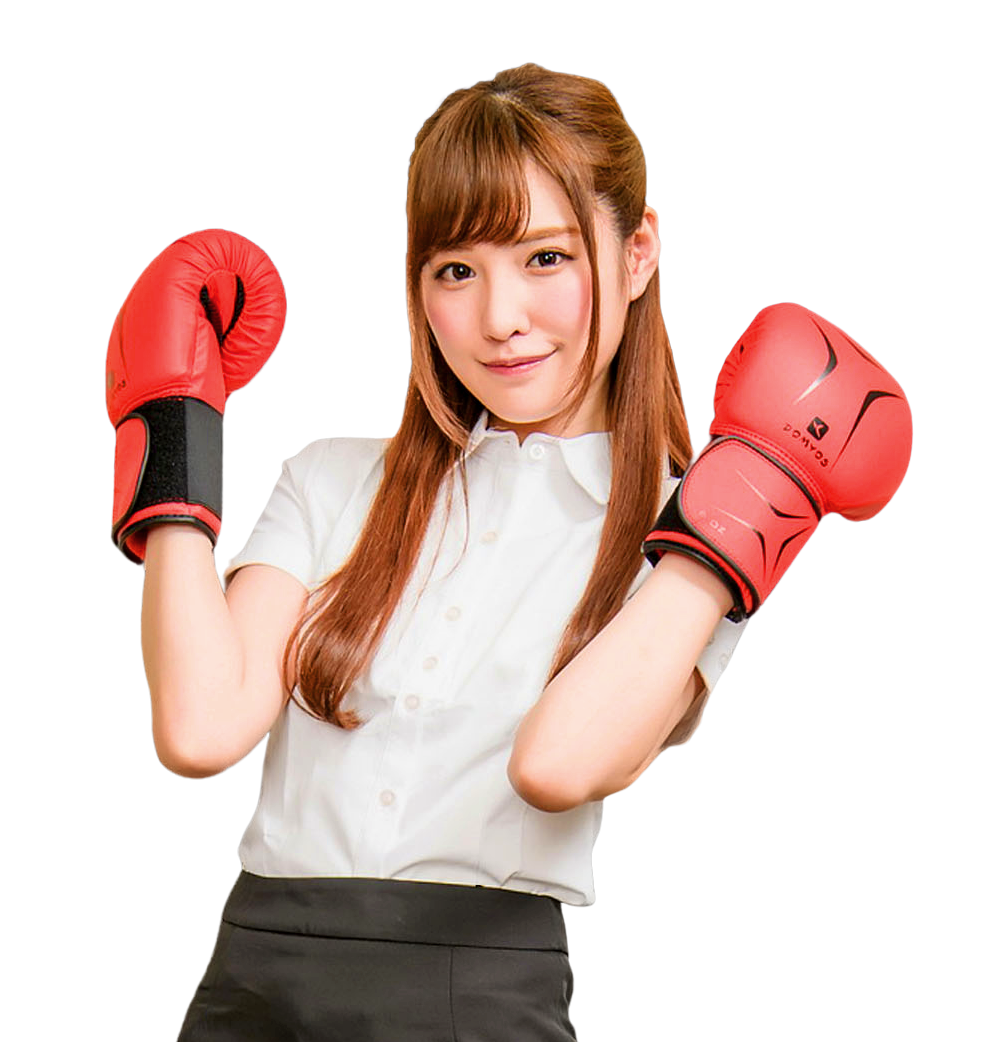
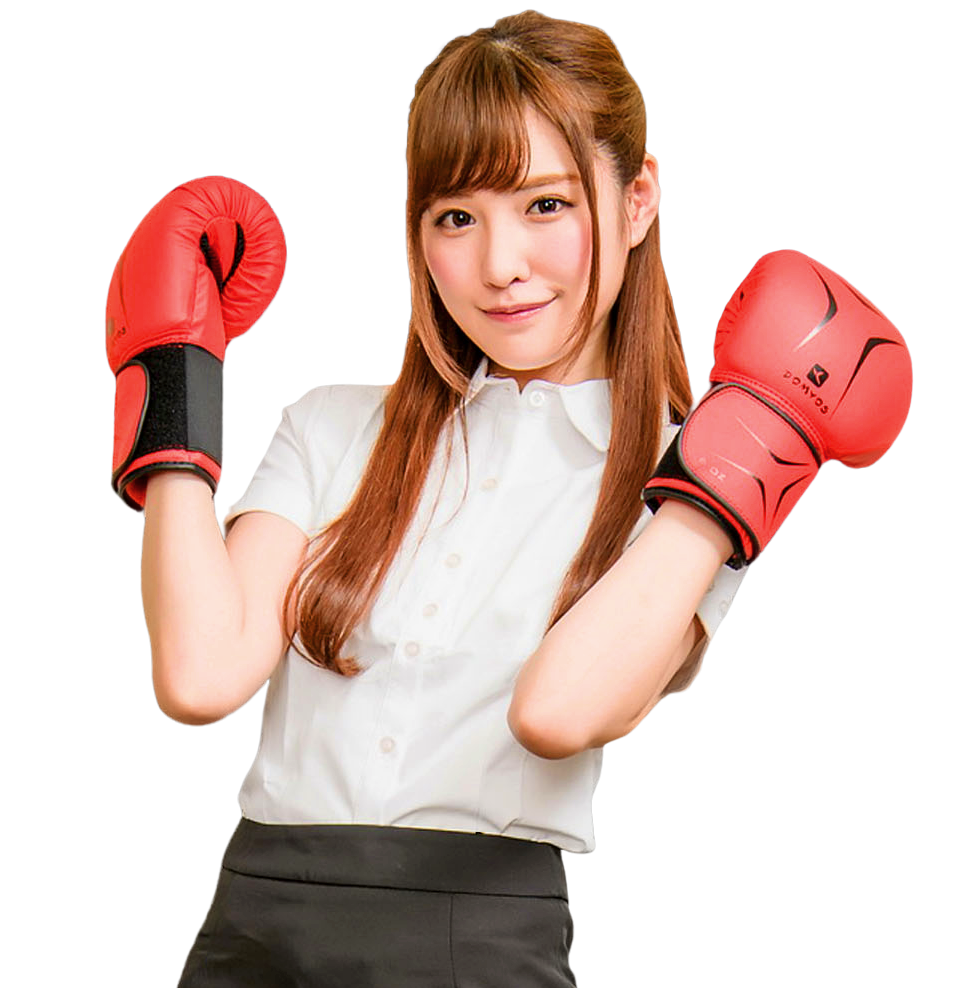
fix img

Changed region(s): [[0.0919, 0.0, 0.9499, 0.9717], [0.1226, 0.6073, 0.1532, 0.668]]

diff --git a/css/style.css b/css/style.css
@@ -311,14 +311,14 @@ header .row{
     position: absolute;
     transform: translate(-50%, 0);
     top:0;
-    margin-top: 0;
+    margin-top: 3%;
     width:auto;
     z-index:0;
 }
 
 
 .win-and-get div{
-    margin: 3% 0;
+    margin: 3% -15%;
 }
 .win-and-get span{
     margin:0 5px;
@@ -333,7 +333,7 @@ header .row{
 }
 .win-number p{
     display:inline-block;
-    font-size: 4vw;
+    font-size: 5vw;
 }
 .play-history, .prize-history{
     margin-top:5%;
@@ -393,6 +393,7 @@ header .row{
     z-index:2;
 }
 .model1 img{
+    width: 110%;
 }
 .model2 img{
     width: 100%;
@@ -400,7 +401,7 @@ header .row{
 
 /*====================05.footer============*/
 #footer{
-    margin-top:-30%;
+    margin-top:-40%;
     position:relative;
     height:100%
 }
@@ -418,7 +419,7 @@ header .row{
 }
 #dapp-listing{
     max-width: 1240px;
-    width: 90%;
+    width: 70%;
     margin-top: 13%;
     text-align: center;
     font-size: 2vw;
@@ -446,7 +447,9 @@ header .row{
 .big-dapp{
     width: 28%;
 }
-
+.big-dapp2 {
+    padding-bottom: 5%;
+}
 #bottom {
     width:100%;
     color: #fff;
@@ -455,27 +458,28 @@ header .row{
     margin-top:0;
     padding:0 5%;
 }
-#bottom div {
+.copyright, .ARINAUNIVERSELOGO {
     display: inline-block;
     width: 32%;
 }
 .copyright{
     position: absolute;
-    top: 60%;
+    top: 70%;
 }
 .copyright p{
     font-size:1vw;
     margin-bottom: 0;
 }
-
+#bottom hr{
+    border-top:1px solid #fff;
+}
 #bottom .nav a{
     color: #fff;
     font-size: 2vw;
 }
 #bottom .ARINAUNIVERSELOGO{
     padding-top: 3%;
-    margin-left: 35%;
-}
+    margin-left: 37%;
 }
 
 #bottom .nav{
@@ -488,12 +492,13 @@ header .row{
 }
 .icon{
     position: absolute;
-    top: 40%;
-    left: 75%;
+    top: 55%;
+    right: 3%;
+    width:20%;
 }
 
 .icon li{
-    padding: 0 3%;
+    padding: 0 4%;
 }
 
 

diff --git a/index2.php b/index2.php
@@ -237,7 +237,7 @@
                             <img src="images/8DAPPLISTING/dapp_online.png" alt="">
                         </a>
                     </div>
-                    <div class="big-dapp">
+                    <div class="big-dapp big-dapp2">
                         <a target="_blank" href="https://dapptotal.com/detail/8395/ARINA-LAND-TYCOON">
                             <img src="images/8DAPPLISTING/dapptotal.png" alt="">
                         </a>
@@ -245,6 +245,7 @@
                 </div>
 
                 <div id="bottom">
+                    <hr>
                     <div class="copyright">
                         <p>Copyright&copy; 2018.GIC-COIN All Rights Reserved.</p>
                         
